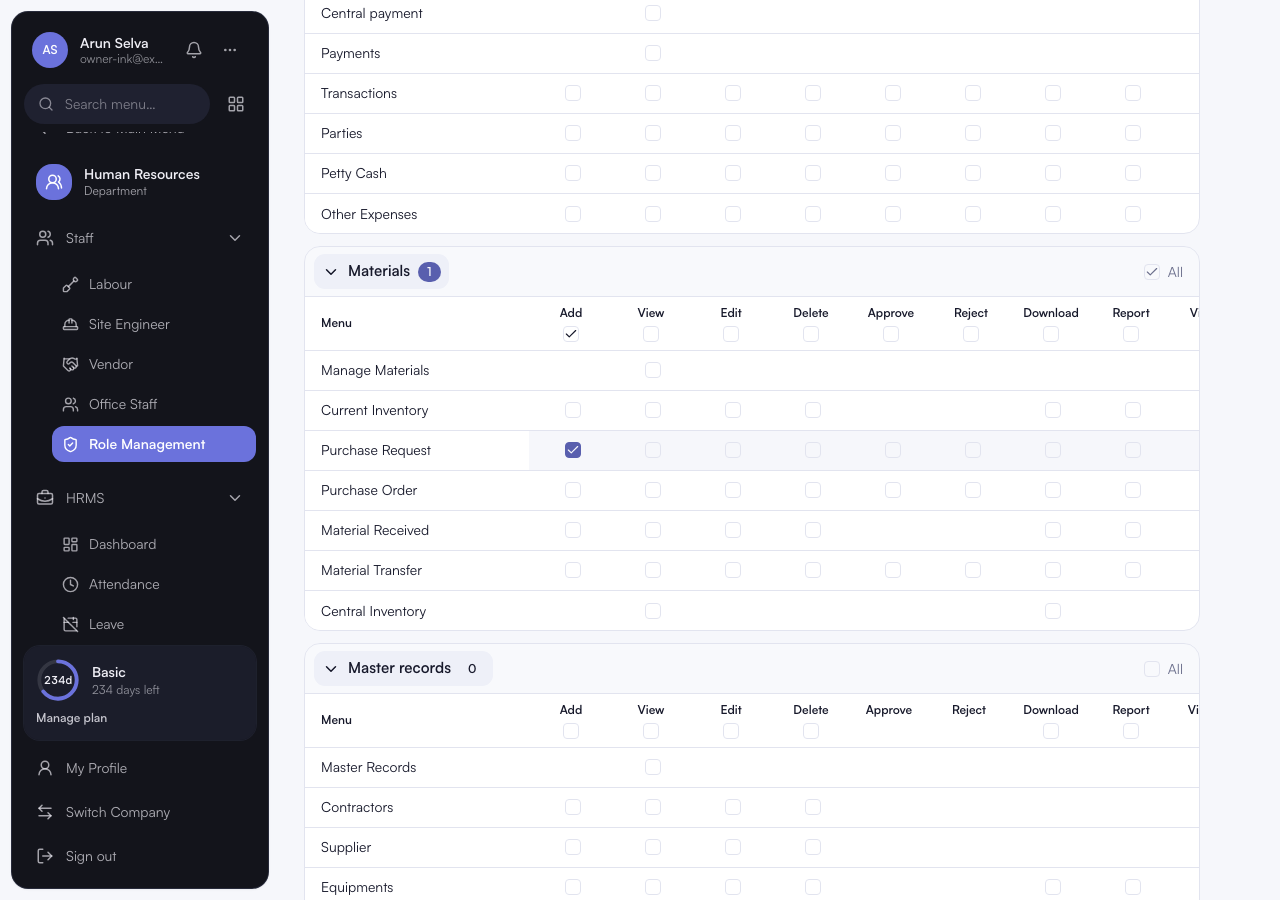
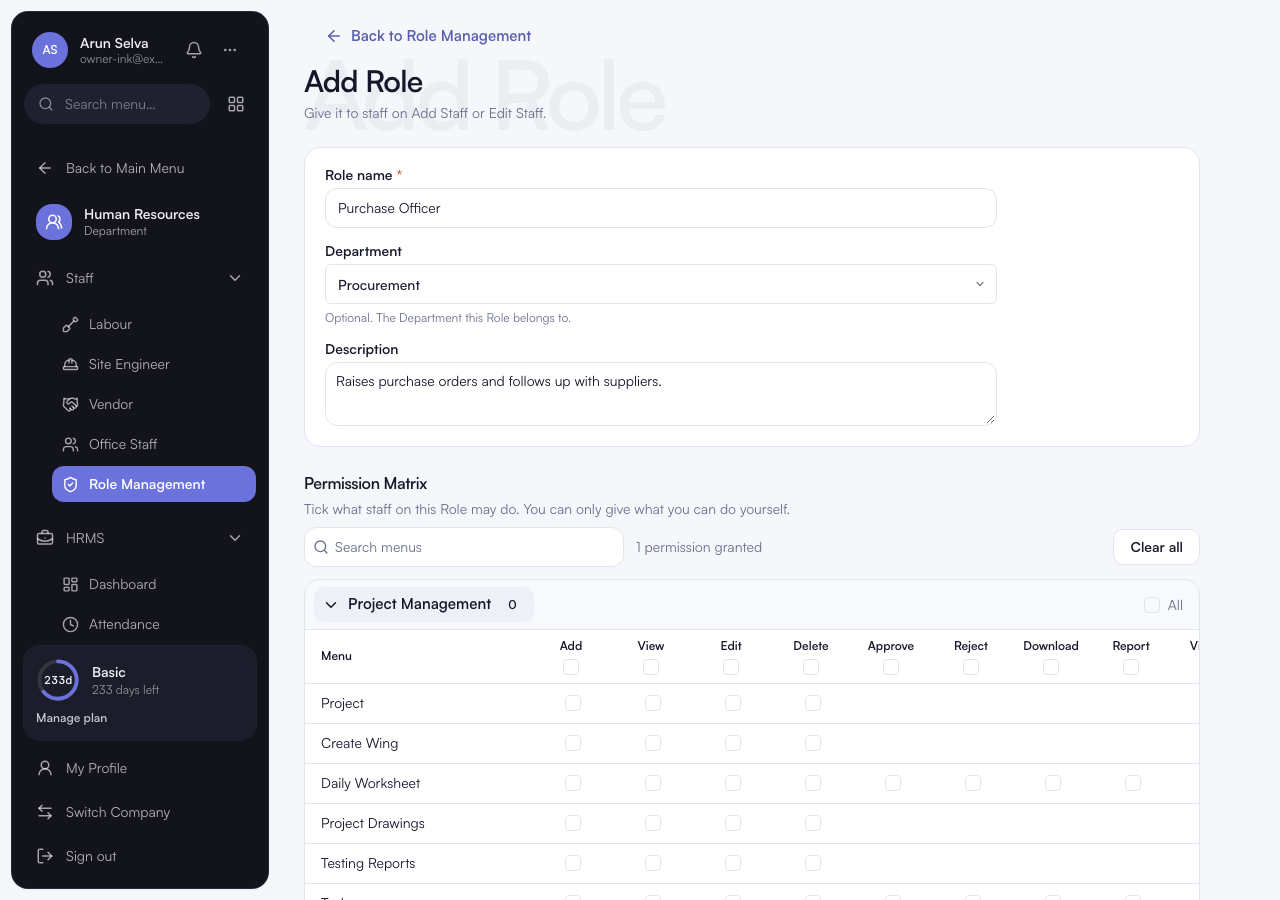
Role form: full-width Department picker; Retry when departments fail to load; no reads after a new Role commits
- The Department select matches the Role name field (full width, 40 px).
- When the departments list fails, the field says so and offers Retry;
  "No department" and the Role's own Department stay selectable.
- Add and Duplicate read Department names before the save and build the
  response from the saved Role, so a failed read can no longer turn a
  committed Role into an error (CodeRabbit).
- Retook the three form screenshots.

diff --git a/apps/construction-management/app/app/staff/roles/_components/role-form.stories.tsx b/apps/construction-management/app/app/staff/roles/_components/role-form.stories.tsx
@@ -212,6 +212,57 @@ export const EditRoleDepartment: Story = {
   },
 };
 
+/**
+ * The departments list fails to load: the Role keeps its own Department,
+ * the field says so, and Retry brings the whole list back.
+ */
+export const DepartmentsFailToLoad: Story = {
+  args: { id: ACCOUNTANT_ROLE.id },
+  beforeEach() {
+    let failures = 1;
+    api = mockApi((call) => {
+      const { method, path } = call;
+      if (method === "GET" && path === ACCOUNTANT)
+        return Response.json(ACCOUNTANT_ROLE);
+      const departments = departmentsResponse(call);
+      if (departments != null && failures > 0) {
+        failures -= 1;
+        return Response.json(
+          { code: "INTERNAL", message: "Something went wrong." },
+          { status: 500 },
+        );
+      }
+      return departments;
+    });
+    return api.restore;
+  },
+  play: async ({ canvas, canvasElement, userEvent }) => {
+    const alert = await canvas.findByRole("alert");
+    await expect(alert).toHaveTextContent(
+      "Your departments did not load, so only some are listed.",
+    );
+    const department = canvas.getByRole("combobox", { name: "Department" });
+    await expect(department).toHaveTextContent(ACCOUNTS?.name ?? "");
+    await expect(department).toBeEnabled();
+    const page = within(canvasElement.ownerDocument.body);
+    await userEvent.click(department);
+    await expect(
+      await page.findByRole("option", { name: "No department" }),
+    ).toBeVisible();
+    await expect(
+      page.queryByRole("option", { name: PURCHASE?.name ?? "" }),
+    ).toBeNull();
+    await userEvent.keyboard("{Escape}");
+
+    await userEvent.click(within(alert).getByRole("button", { name: "Retry" }));
+    await waitFor(() => expect(canvas.queryByRole("alert")).toBeNull());
+    await userEvent.click(department);
+    await expect(
+      await page.findByRole("option", { name: PURCHASE?.name ?? "" }),
+    ).toBeVisible();
+  },
+};
+
 /** The Department went away after the form loaded: said on the field. */
 export const DepartmentGone: Story = {
   beforeEach() {

diff --git a/apps/construction-management/app/app/staff/roles/_components/role-form.tsx b/apps/construction-management/app/app/staff/roles/_components/role-form.tsx
@@ -90,7 +90,8 @@ function inputOf(values: Values): RoleInput {
 /**
  * The Department a Role is under: optional, so the list starts with "No
  * department" (ADR CM-0050). The Role's own Department is offered while
- * the list loads, so Edit shows it at once.
+ * the list loads, so Edit shows it at once, and stays offered with a
+ * Retry when the list fails to load.
  */
 function DepartmentField({
   form,
@@ -126,8 +127,7 @@ function DepartmentField({
           >
             <SelectTrigger
               id="role-department"
-              size="lg"
-              className="w-full min-w-0 sm:max-w-sm"
+              className="w-full min-w-0"
               aria-invalid={error != null}
               aria-describedby="role-department-hint"
             >
@@ -150,6 +150,27 @@ function DepartmentField({
       <p id="role-department-hint" className="text-muted-foreground text-xs">
         Optional. The Department this Role belongs to.
       </p>
+      {query.isError ? (
+        <div
+          role="alert"
+          className="text-destructive flex flex-wrap items-center gap-x-2 text-sm"
+        >
+          Your departments did not load, so only some are listed.
+          <Button
+            type="button"
+            variant="link"
+            size="xs"
+            className="h-auto px-0"
+            disabled={query.isFetching}
+            onClick={() => {
+              void query.refetch();
+            }}
+          >
+            <RefreshCw aria-hidden />
+            {query.isFetching ? "Retrying…" : "Retry"}
+          </Button>
+        </div>
+      ) : null}
       <FieldError message={error} />
     </div>
   );

diff --git a/apps/construction-management/src/organization/application/role-handlers.ts b/apps/construction-management/src/organization/application/role-handlers.ts
@@ -42,6 +42,20 @@ export class RoleHandlers {
     return role;
   }
 
+  /**
+   * A Role just added (Add or Duplicate): nobody is on it yet. The
+   * Department names are read before the save, so nothing is read after
+   * the commit and a failed read cannot turn a saved Role into an error.
+   */
+  private async saveNew(role: Role, audit: AuditEvent): Promise<RoleReadModel> {
+    const departments =
+      role.departmentId == null
+        ? new Map<string, string>()
+        : await this.roles.departmentNames(role.workspaceId);
+    await this.roles.save(role, { audit });
+    return toRoleReadModel(role, 0, departments);
+  }
+
   private async view(role: Role): Promise<RoleReadModel> {
     const [counts, departments] = await Promise.all([
       this.roles.userCounts(role.workspaceId),
@@ -109,10 +123,7 @@ export class RoleHandlers {
       by: input.by,
       now,
     });
-    await this.roles.save(role, {
-      audit: this.audit(role, input.by, "role.created"),
-    });
-    return this.view(role);
+    return this.saveNew(role, this.audit(role, input.by, "role.created"));
   }
 
   /**
@@ -190,12 +201,12 @@ export class RoleHandlers {
       by: input.by,
       now,
     });
-    await this.roles.save(copy, {
-      audit: this.audit(copy, input.by, "role.duplicated", {
+    return this.saveNew(
+      copy,
+      this.audit(copy, input.by, "role.duplicated", {
         sourceRoleId: source.id,
       }),
-    });
-    return this.view(copy);
+    );
   }
 
   /**
